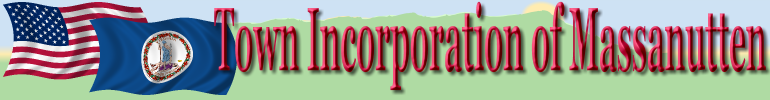
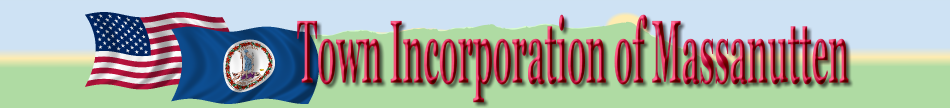
Home page fix

diff --git a/public/stylesheets/public.css b/public/stylesheets/public.css
@@ -25,11 +25,10 @@ body {
 
 header {
     padding: 0;
-    height: 100px;
-    text-align: center;
-    background-image: url('/images/BG.png');
-    border-top: #CEE2F4 solid 22px;
-    border-bottom: #AFDBA3 solid 4px;
+    height: 108px;
+
+
+
 }
 
 /* @end Header */
@@ -44,7 +43,8 @@ header {
 #mainNav {
     float: left;
     width: 150px;
-    background-color: #CEE2F4;
+    background-color: #d6ecff;
+
 
 }
 
@@ -60,29 +60,32 @@ header {
     text-align: left;
     cursor: pointer;
     font-family: Georgia, "Times New Roman", Times, serif;
-
     font-size: 14px;
     line-height: 18px;
 
 }
 
-
-#mainNav ul li a {
+  #mainNav ul li a {
     display: block;
     cursor: pointer;
     padding: 0 0 0 5px;
-    color: #333;
+    color: #4c585a;
+
     text-decoration: none;
    /* background: transparent url(/images/navbg_norm.jpg) no-repeat 1px top;*/
 }
 #mainNav ul li.selected a {
   /*  background: transparent url(/images/navbg_selected.jpg) no-repeat 1px top;*/
     color: #BB133E;
-    background-color: #FFECB1;
+    background-color: #b1dbfe;
 }
+
+
 #mainNav a:hover, #mainNav a:focus, #mainNav ul li a:hover {
     color: #BB133E;
     border-bottom: none;
+    background-color: #b1dbfe;
+    text-decoration: underline;
    /* background: #CEE2F4 url(/images/navbg_hover.jpg) no-repeat 1px top;*/
 }
 
@@ -99,7 +102,10 @@ header {
 
 #mainNav ul li:hover ul {
     display: block;
-    border: none;
+    border: #ddd solid 1px;
+     border-radius: 2px;
+    -webkit-border-radius: 0.2em;
+    -moz-border-radius: 0.2em;
     left: 0;
 
 }
@@ -112,18 +118,25 @@ header {
 }
 
 #mainNav ul li ul li a {
-    background-color: #ddd;
-    background-image: url(none);
+    background-color: #F9FBF0;
+    background-image: url(none); color:#4c585a; font-weight: bold;
 }
 #mainNav ul li ul li a:hover {
-    background-color: #ddd;
-    background-image: url(none);
+    background-color: #F9FBF0;
+    background-image: url(none); color:#BB133E; font-weight: bold;
 }
-#mainNav ul li.selected ul li  a {
-    background-color: #ddd;
-    background-image: url(none);
+#mainNav ul li.selected ul li a {
+    background-color: #F9FBF0;
+    background-image: url(none);color:#4c585a; font-weight: bold;
 }
-
+   #mainNav ul li.selected ul li a:hover {
+    background-color: #F9FBF0;
+    background-image: url(none);color:#BB133E; font-weight: bold;
+   }
+ #mainNav ul li.selected ul li a.selected {
+    background-color: #F9FBF0;
+    background-image: url(none);color:#BB133E; font-weight: bold;
+}
 /*next prev navigation*/
 
 .prevnextnav {
@@ -170,13 +183,11 @@ header {
 
 /*end navigation*/
 /* @group Footer */
-.footer { height: auto;
-        background: #CEE2F4;
-        color: #777;
-        padding: 1.5em 0 1.5em 0;
-    font-size: 12px;
+.footer {text-align: center;
+         color: #666;
+        font-size: 11px;
 }
-
+  /*div{outline: #ccc solid 1px;}*/
 /* Headings
 -------------------------------------------------------------- */
 h3.underline {
@@ -461,7 +472,7 @@ button {
     border-right-color: #08e;
     border-bottom-color: #07d;
     border-left-color: #1af;
-    border-radius: 5px;
+   border-radius: 5px;
     -webkit-border-radius: 0.5em;
     -moz-border-radius: 0.5em;
     margin: 2px 0 2px 5px;
@@ -570,7 +581,7 @@ h3.banner {
 
 div.outer {
     float: left;
-    background: #CEE2F4;
+    background: #ADD9A1;
     padding-left: 5px;
     padding-right: 5px;
     padding-top: 5px;

diff --git a/public/stylesheets/home.css b/public/stylesheets/home.css
@@ -10,7 +10,7 @@ body {
 .container {
     margin: 18px auto 0 auto;
     height: 576px;
-    background: #f0f2f1 url('/images/Home-page950-576.jpg') no-repeat;
+    background: #f0f2f1 url('/images/homepage.jpg') no-repeat;
 }
 
 .content {
@@ -72,4 +72,8 @@ a.button:active,
 a.button:focus {
     color: #fff;
     text-decoration: none;
+}
+ .footer {text-align: center;
+         color: #666;
+        font-size: 11px;
 }
